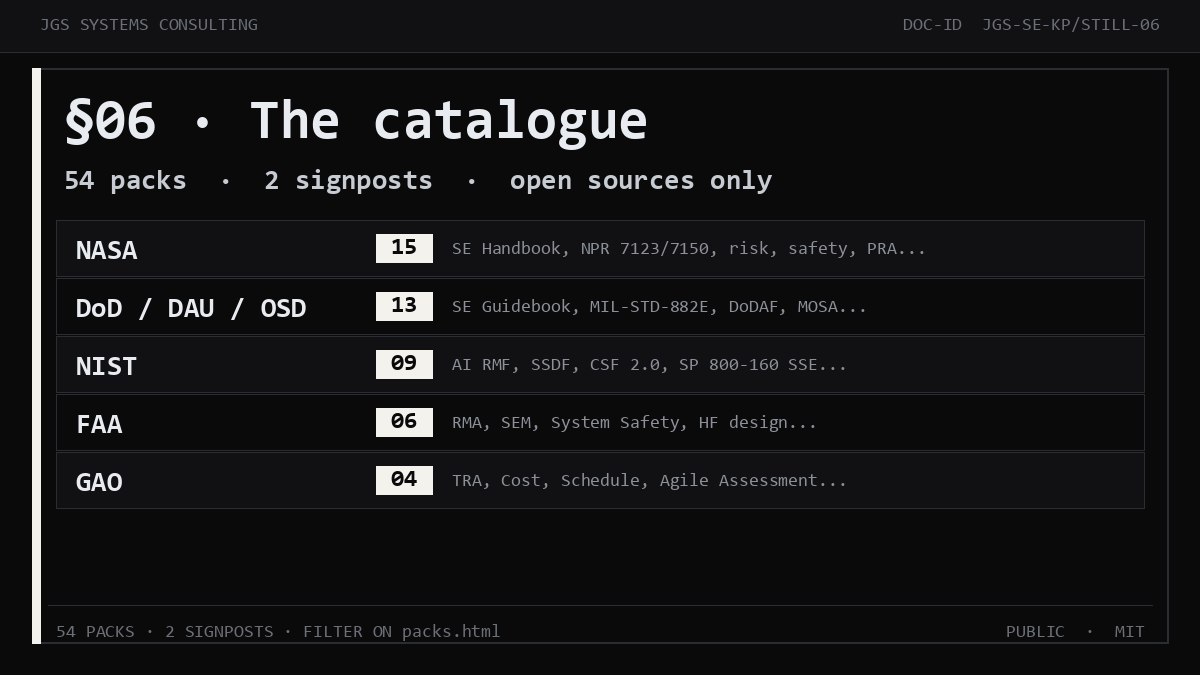
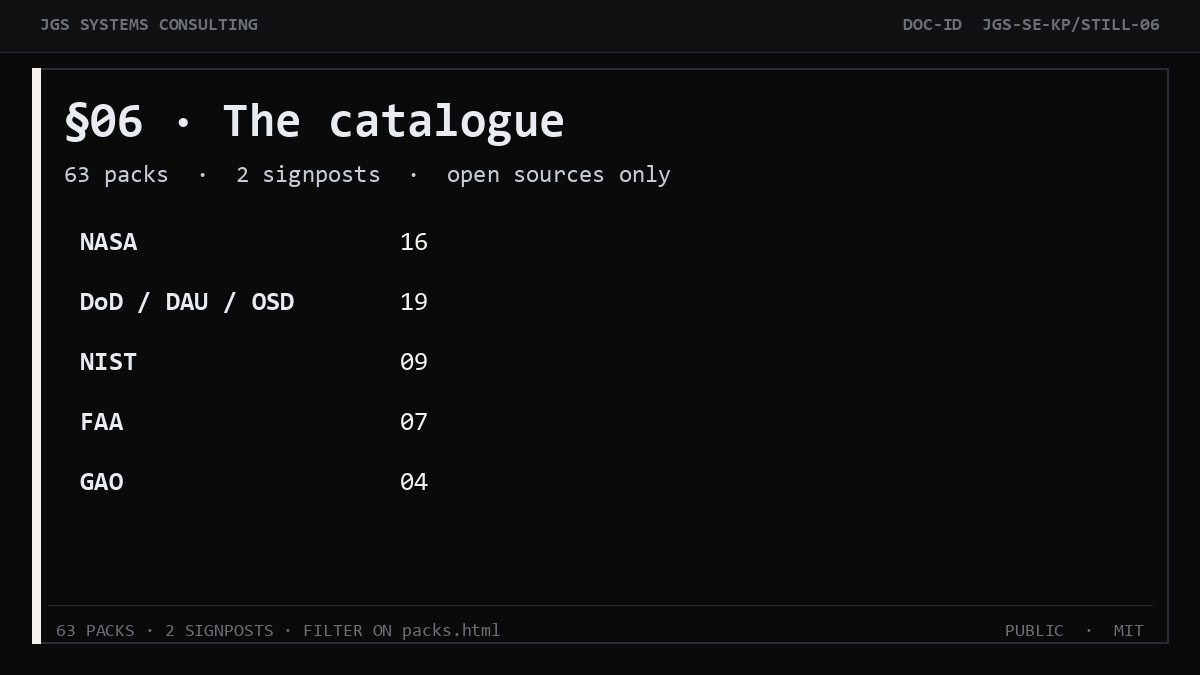
fix(docs): recount landing §06 to 63 packs · 2 signposts
Family chips match live packs/ (NASA16 DoD19 NIST9 FAA7 GAO4 DOE2 CISA1 OMB1 EU4 + Signposts2). Still SVG subtitle/footer and top-five rows updated; PNG regenerated at 1200x675.

diff --git a/docs/index.html b/docs/index.html
@@ -223,22 +223,24 @@ python install.py --agent all   <span class="muted"># claude · openclaw · copi
 <!-- §06 The catalogue -->
 <section><div class="wrap">
   <div class="sec-head"><span class="label">§06 · The catalogue</span>
-    <h2>54 packs &middot; 2 signposts</h2></div>
+    <h2>63 packs &middot; 2 signposts</h2></div>
   <div class="packs">
-    <div class="pk"><b>NASA &middot; 15</b><span>SE Handbook &amp; Expanded Guidance, NPR 7123 / 7150, risk, system safety, fault management, HSI, PRA, R&amp;M, schedule, cost, digital engineering, systems modeling, M&amp;S standard 7009</span></div>
-    <div class="pk"><b>DoD / DAU / OSD &middot; 13</b><span>SE Guidebook, MIL-STD-882E, DoDAF, MOSA, RIO, digital engineering, M&amp;Q BoK, T&amp;E, MIL-HDBK-61 CM, MRL Deskbook, SD-22 DMSMS, MIL-HDBK-338B reliability, MIL-HDBK-516C airworthiness</span></div>
+    <div class="pk"><b>NASA &middot; 16</b><span>SE Handbook &amp; Expanded Guidance, NPR 7123 / 7150, risk, system safety, fault management, HSI, PRA, R&amp;M, schedule, cost estimating, digital engineering acquisition, systems modeling, M&amp;S 7009, orbital debris 8719</span></div>
+    <div class="pk"><b>DoD / DAU / OSD &middot; 19</b><span>SE Guidebook, MIL-STD-882E, DoDAF, MOSA, RIO, digital engineering, M&amp;Q BoK, T&amp;E, V&amp;V RPG, MIL-HDBK-61 CM, MRL Deskbook, SD-22 DMSMS, MIL-HDBK-338B, MIL-HDBK-516C, MIL-STD-40051, MIL-STD-881F, DAFMAN 63-119, DOT&amp;E T&amp;E, IS-GPS-200N</span></div>
     <div class="pk"><b>NIST &middot; 9</b><span>AI RMF, SSDF, CSF 2.0, SP 800-160 SSE, SP 800-37 RMF, Cyber-Physical Systems, NIST/SEMATECH statistics, SP 800-171 CUI, SP 800-61 incident response</span></div>
-    <div class="pk"><b>FAA &middot; 6</b><span>RMA Handbook, Systems Engineering Manual, System Safety, Human Factors Design Std, AMS V&amp;V, Requirements Engineering Management</span></div>
+    <div class="pk"><b>FAA &middot; 7</b><span>RMA Handbook, Systems Engineering Manual, System Safety, Human Factors Design Std, AMS V&amp;V, Requirements Engineering Management, STD-025 interface documentation</span></div>
     <div class="pk"><b>GAO &middot; 4</b><span>Technology Readiness, Cost Estimating, Schedule Assessment, Agile Assessment guides</span></div>
     <div class="pk"><b>DOE &middot; 2</b><span>Systems Engineering Methodology (SEM3), capital-asset project management (O 413.3)</span></div>
     <div class="pk"><b>CISA / DHS &middot; 1</b><span>Cross-Sector Cybersecurity Performance Goals 2.0</span></div>
-    <div class="pk"><b>EU / academic / JGS &middot; 4</b><span>EU AI Act 2024/1689, Digital Systems Engineering (arXiv), EARS requirements-writing, plus OMG &amp; SE-standards signposts</span></div>
+    <div class="pk"><b>OMB / cross-federal &middot; 1</b><span>Federal benefit-cost analysis (OMB Circular A-94)</span></div>
+    <div class="pk"><b>EU / academic / JGS &middot; 4</b><span>EU AI Act 2024/1689, Digital Systems Engineering (arXiv), EARS requirements-writing, SEBoK</span></div>
+    <div class="pk"><b>Signposts &middot; 2</b><span>OMG and SE-standards download pointers (not content packs)</span></div>
   </div>
   <figure class="still">
     <img src="assets/still-catalogue.png" width="1200" height="675"
       alt="Drafting-sheet still of the catalogue families and pack counts."
       decoding="async" loading="lazy">
-    <figcaption>FIG.06 · Fifty-four packs across open sources; filter the full list on packs.html.</figcaption>
+    <figcaption>FIG.06 · Sixty-three packs plus two signposts across open sources; filter the full list on packs.html.</figcaption>
   </figure>
   <p style="margin:1.4rem 0 0;color:var(--text)">Browse and filter the full catalogue on the
   <a href="packs.html">pack reference page</a>, or read the raw index in
